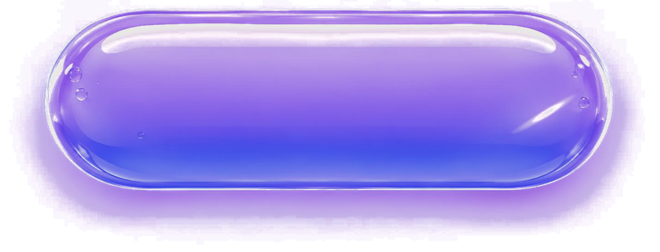
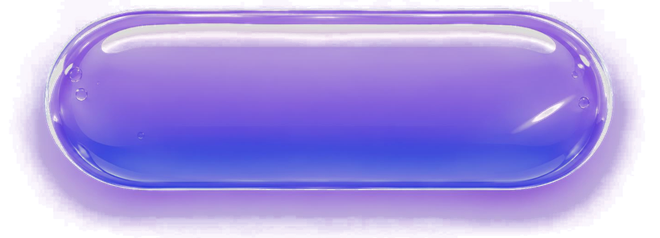
deploy: обновление лендинга

diff --git a/style.css b/style.css
@@ -71,9 +71,10 @@ a{color:inherit;text-decoration:none}
   text-shadow:0 1px 10px rgba(52,32,110,.5),0 1px 2px rgba(52,32,110,.4);
   transition:transform .3s cubic-bezier(.2,.9,.3,1.2),box-shadow .3s ease}
 /* Сочная капсула из Leonardo. Картинка заполняет коробку целиком, тень уже нарисована в ней.
-   Сдвиг -2px: у картинки снизу больше поля, без сдвига надпись сидела бы выше центра капсулы. */
+   В самой картинке центр капсулы выровнен по центру кадра — поэтому надпись встаёт ровно
+   посередине капсулы без всяких сдвигов фона. */
 .pill::before{content:"";position:absolute;inset:0;z-index:-1;border-radius:inherit;pointer-events:none;
-  background:url('img/btn.png') 50% calc(50% - 2px)/100% 100% no-repeat;
+  background:url('img/btn.png') center/100% 100% no-repeat;
   transition:filter .3s ease}
 /* по стеклу раз в пять секунд пробегает блик — кнопка «живая» и просит нажатия */
 .pill::after{content:"";position:absolute;top:0;left:-45%;width:32%;height:100%;z-index:-1;pointer-events:none;

diff --git a/index.html b/index.html
@@ -15,7 +15,7 @@
 <meta property="og:description" content="За один вечер — готовая вещь. Мастер ведёт за руку: вот так держать, вот так вести.">
 <meta property="og:image" content="img/og.jpg">
 <meta name="twitter:card" content="summary_large_image">
-<link rel="stylesheet" href="style.css?v=60">
+<link rel="stylesheet" href="style.css?v=61">
 </head>
 <body>
 
